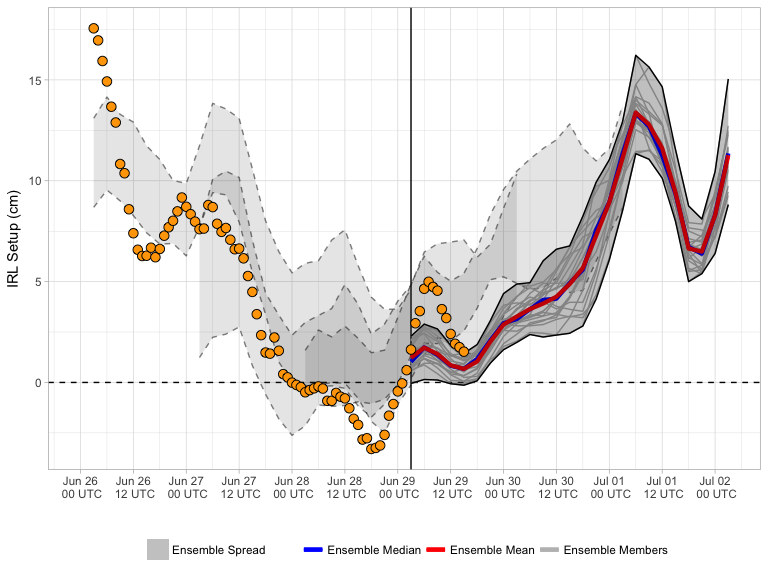
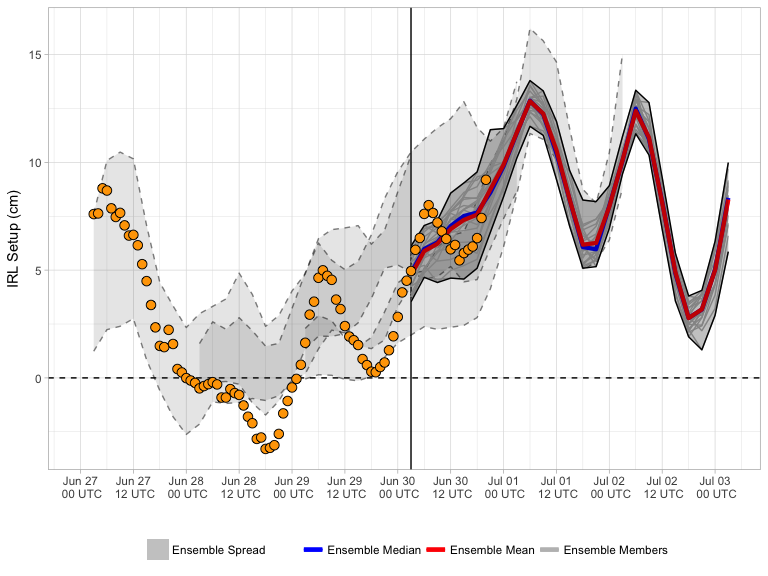
20170630 forecast update

diff --git a/docs/index.md b/docs/index.md
@@ -3,7 +3,7 @@ Current Forecast
 
 [![](img/raw_setup.png)](https://bhlmn.github.io/IRLSetup/img/raw_setup.png)
 
-> Forecast valid 2017-06-29 11:25:51.
+> Forecast valid 2017-06-30 16:49:37.
 
 Explanation
 -----------
@@ -17,7 +17,7 @@ star), and Sebastian, FL (white star). In general, southerly (northerly)
 winds result in increased water elevation near Titusville (Sebastian)
 and positive (negative) setup.
 
-The current (18 UTC 2017-06-28) 0.5° [Global Ensemble Forecast System
+The current (18 UTC 2017-06-29) 0.5° [Global Ensemble Forecast System
 (GEFS)](https://www.ncdc.noaa.gov/data-access/model-data/model-datasets/global-ensemble-forecast-system-gefs)
 mean and median forecasts of setup are represented by the red and blue
 curves, respectively. Ensemble spread from the current and three
